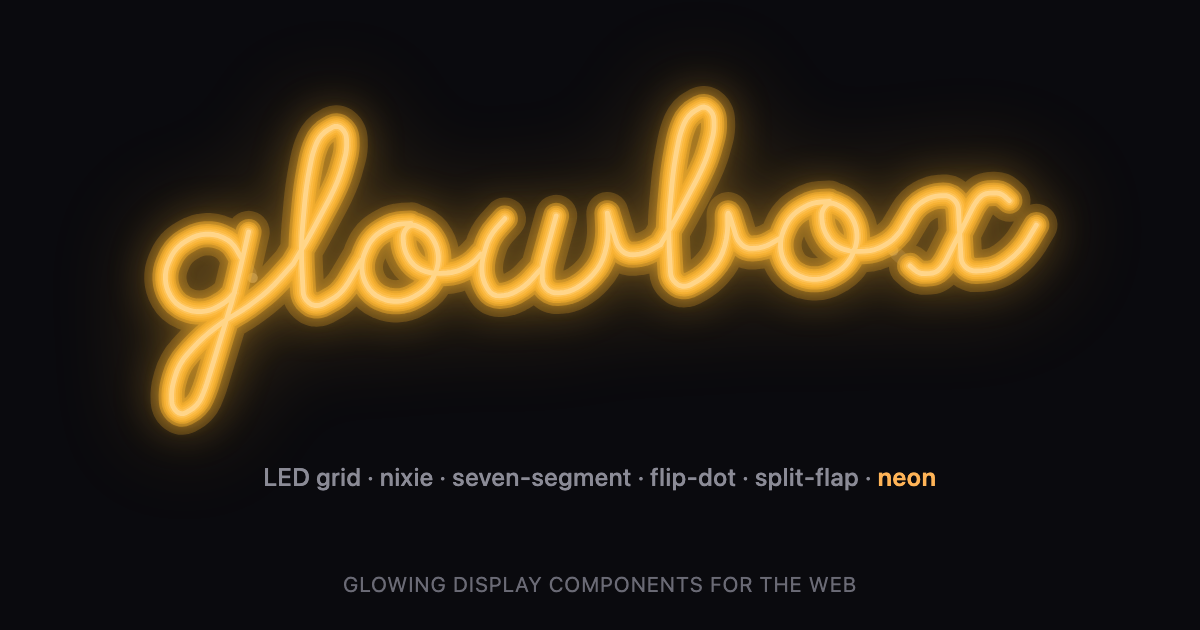
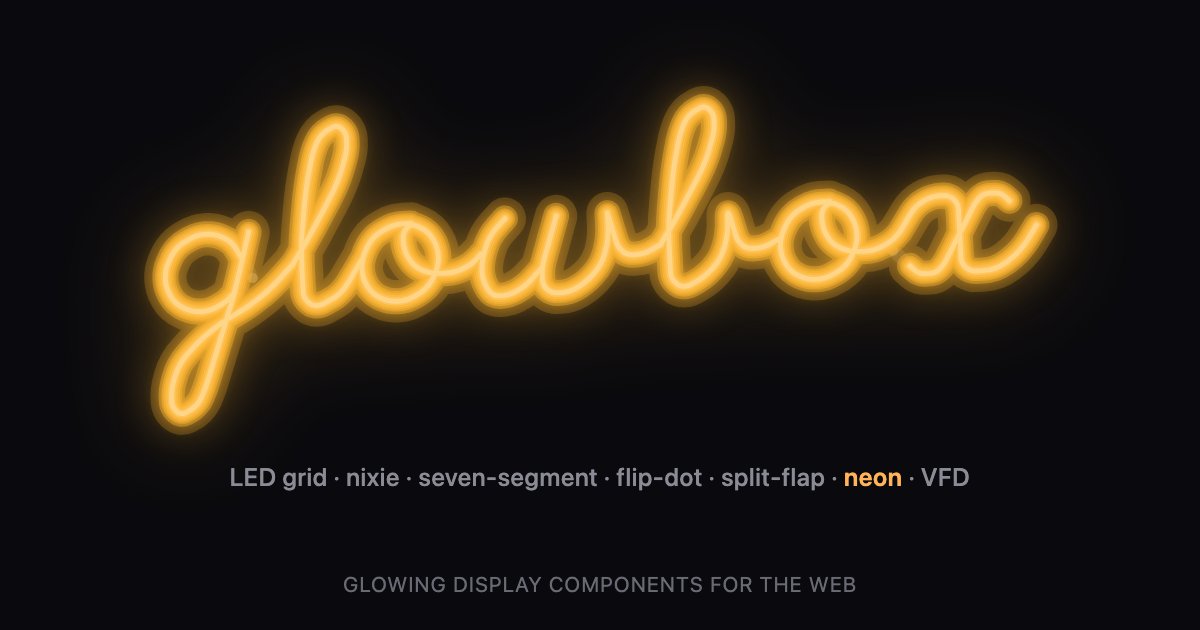
chore(release): v1.9.0 (#75)
* chore(release): v1.9.0

Twelve packages in lockstep. The headline is @glowbox/vfd, the seventh
display core and the first heterogeneous one: a stereo faceplate where every
element kind compiles to one flat anode inventory, so the envelope physics --
persistence, the dimmer, the self-test, wear, grid banding -- is a handful of
uniform passes over a single Float32Array.

Also in: the shared/ symlink fold that collapsed ~2,200 lines of hand-copied
duplicates to one file each, with a CI guard.

* gallery: put the VFD on the social card, and drop the core counts

The og.png listed six cores and shipped without the seventh. Regenerated
with VFD in the strip -- still drawn by the neon core, which is what the
bold entry marks: it is the renderer, not "the newest", so it does not have
to move when a core lands.

Every count of cores or packages is gone from the copy that goes out to
crawlers and unfurlers -- the title, og:title, twitter:title, the README
table and the nav comment. A number there is wrong the day a core ships, and
stale metadata is the kind that gets cached. The lists stay; the arithmetic
goes.

The web manifest still described the library as a 3D LED-grid display, from
before any other core existed. Fixed.

Changed region(s): [[0.185, 0.7238, 0.8017, 0.7841]]

diff --git a/examples/svelte-gallery/src/app.html b/examples/svelte-gallery/src/app.html
@@ -7,7 +7,7 @@
 		<!-- Static title/description/social cards: the app renders client-side only, so
 		     this — not any component markup — is what crawlers and link unfurlers see.
 		     (Routes override the title at runtime via <svelte:head>.) -->
-		<title>glowbox — seven glowing retro display components</title>
+		<title>glowbox — glowing retro display components</title>
 		<meta
 			name="description"
 			content="Glowing retro displays you can install: a 3D WebGL LED grid you draw on like a tiny 3D canvas, plus nixie tubes, seven-segment digits, a flip-dot board, a split-flap departure board, glass-tube neon signs and a vacuum-fluorescent stereo panel — framework-agnostic cores with Svelte, React and Vue wrappers, and a live demo for every one."
@@ -15,25 +15,28 @@
 		<meta property="og:type" content="website" />
 		<meta property="og:site_name" content="glowbox" />
 		<meta property="og:locale" content="en" />
-		<meta property="og:title" content="glowbox — seven glowing retro display components" />
+		<meta property="og:title" content="glowbox — glowing retro display components" />
 		<meta
 			property="og:description"
 			content="A 3D LED grid, nixie tubes, seven-segment digits, flip-dots, a split-flap board, neon signs and a VFD stereo panel — installable, framework-agnostic, with live demos."
 		/>
 		<meta property="og:url" content="https://eetu.github.io/glowbox/" />
 		<!-- The card is drawn BY the library (the neon core bends the wordmark) and
-		     regenerated with scripts/make-og.mjs. Absolute URL: unfurlers don't
-		     resolve relative paths, and it lives under the Pages base path. -->
+		     regenerated with scripts/make-og.mjs — re-run that when a core is added, and
+		     update the alt text below with it. Absolute URL: unfurlers don't resolve
+		     relative paths, and it lives under the Pages base path.
+		     No counts in any of this copy: a number goes stale the next time a core ships,
+		     and stale metadata is what crawlers cache. -->
 		<meta property="og:image" content="https://eetu.github.io/glowbox/og.png" />
 		<meta property="og:image:type" content="image/png" />
 		<meta property="og:image:width" content="1200" />
 		<meta property="og:image:height" content="630" />
 		<meta
 			property="og:image:alt"
-			content="The word glowbox bent into glowing gold neon tubing on a dark wall, above the list: LED grid, nixie, seven-segment, flip-dot, split-flap, neon."
+			content="The word glowbox bent into glowing gold neon tubing on a dark wall, above the list: LED grid, nixie, seven-segment, flip-dot, split-flap, neon, VFD."
 		/>
 		<meta name="twitter:card" content="summary_large_image" />
-		<meta name="twitter:title" content="glowbox — seven glowing retro display components" />
+		<meta name="twitter:title" content="glowbox — glowing retro display components" />
 		<meta
 			name="twitter:description"
 			content="A 3D LED grid, nixie tubes, seven-segment digits, flip-dots, a split-flap board, neon signs and a VFD stereo panel — installable, framework-agnostic, with live demos."

diff --git a/examples/svelte-gallery/src/lib/components/CoreNav.svelte b/examples/svelte-gallery/src/lib/components/CoreNav.svelte
@@ -87,7 +87,7 @@
 		border: 1px solid var(--halo-border);
 		border-radius: var(--halo-radius);
 		background: var(--halo-bg-main);
-		/* Seven cores no longer fit a phone header: scroll the strip instead of
+		/* The cores stopped fitting a phone header: scroll the strip instead of
 		   clipping the last tab off the screen edge. */
 		overflow-x: auto;
 		scrollbar-width: none;

diff --git a/README.md b/README.md
@@ -44,11 +44,11 @@ DIMMER and a spectrum analyser that smears — on `/vfd`.
 | [`@glowbox/vfd`](packages/vfd)                     | `yarn add @glowbox/vfd`           | VFD panel core: a stereo faceplate in one envelope, persistence, dimmer   |
 | [`@glowbox/crt`](packages/crt)                     | `yarn add @glowbox/crt`           | composable CRT screen over any canvas: curvature, phosphor persistence    |
 | [`@glowbox/svelte`](packages/svelte)               | `yarn add @glowbox/svelte`        | Svelte 5 components, one per core (`<LedGrid>` … `<VfdPanel>`)            |
-| [`@glowbox/react`](packages/react)                 | `yarn add @glowbox/react`         | React components: the same seven (`^18 \|\| ^19`)                         |
-| [`@glowbox/vue`](packages/vue)                     | `yarn add @glowbox/vue`           | Vue 3 components: the same seven                                          |
+| [`@glowbox/react`](packages/react)                 | `yarn add @glowbox/react`         | React components: one per core (`^18 \|\| ^19`)                           |
+| [`@glowbox/vue`](packages/vue)                     | `yarn add @glowbox/vue`           | Vue 3 components: one per core                                            |
 | [`@glowbox/extras`](packages/extras)               | `yarn add @glowbox/extras`        | content: GIF/image players, 5×7 LED font text + scroller                  |
 
-Seven rendering cores — the 3D LED grid (`@glowbox/led-grid`), the nixie tube
+The rendering cores — the 3D LED grid (`@glowbox/led-grid`), the nixie tube
 (`@glowbox/nixie`), the seven-segment display (`@glowbox/seven-segment`), the
 flip-dot board (`@glowbox/flip-dot`), the split-flap display
 (`@glowbox/split-flap`), the neon sign (`@glowbox/neon`) and the VFD panel
@@ -138,7 +138,7 @@ their own `build`/`test`.
 
 ## Publishing
 
-All twelve packages publish to the public npm registry under the `@glowbox` scope. Tag
+Every package publishes to the public npm registry under the `@glowbox` scope. Tag
 a release (`vX.Y.Z`) and the `release` workflow publishes each via **npm trusted
 publishing (OIDC)** with provenance — no `NPM_TOKEN` secret (the cores first, then
 the wrappers + extras). Each package needs a trusted publisher configured on npm.

diff --git a/CLAUDE.md b/CLAUDE.md
@@ -124,9 +124,8 @@ on rerun (`npm view` guard); prerelease versions (`-rc.N`) go to the `rc` dist-t
 
 ## Status / next
 
-- **1.0.x–1.8.0 shipped** (latest: 1.8.0 on 2026-07-30 — the neon core) — **twelve**
-  packages in lockstep: eleven live on npm, plus **`@glowbox/vfd` in-tree awaiting
-  its first release (1.9.0)**, whose first publish needs the new-package flow below.
+- **1.0.x–1.9.0 shipped** (latest: 1.9.0 on 2026-08-01 — the vfd panel core) — **twelve**
+  packages in lockstep, all live on npm.
   NOTE for
   future new packages: npm needs the package to exist before a **trusted publisher**
   can be configured — first-publish a local `-rc.1` with `npm publish --tag rc
@@ -135,7 +134,8 @@ on rerun (`npm view` guard); prerelease versions (`-rc.N`) go to the `rc` dist-t
   make sure the manual publish uses the `-rc.N` version (a stray publish of the
   STABLE version, even if unpublished, burns that number forever — 1.5.0 → 1.5.1
   happened this way), and mind that the rc briefly holds the `latest` dist-tag
-  until the stable ships.
+  until the stable ships — vfd's rcs went out as `1.8.0-rc.N` on purpose, so `latest`
+  sat on an rc until 1.9.0 shipped and no stable number was burned.
 - **Direction:** see `docs/ROADMAP.md` — the strategic bets: `@glowbox/bridge`
   (WLED/DDP hardware streaming), trigger-based WebGL2 renderer (the only 2.0). The
   planned cores all shipped; **neon** was the first post-plan core to clear the

diff --git a/CHANGELOG.md b/CHANGELOG.md
@@ -4,7 +4,7 @@ All notable changes to the glowbox packages are documented here. The format is b
 on [Keep a Changelog](https://keepachangelog.com/en/1.1.0/); the packages share a
 version and are released together.
 
-## [Unreleased]
+## [1.9.0] — 2026-08-01
 
 The seventh display core: a **vacuum-fluorescent display panel** — the front of a
 90s mini-system, and the first _heterogeneous_ core in the family. Every one before
